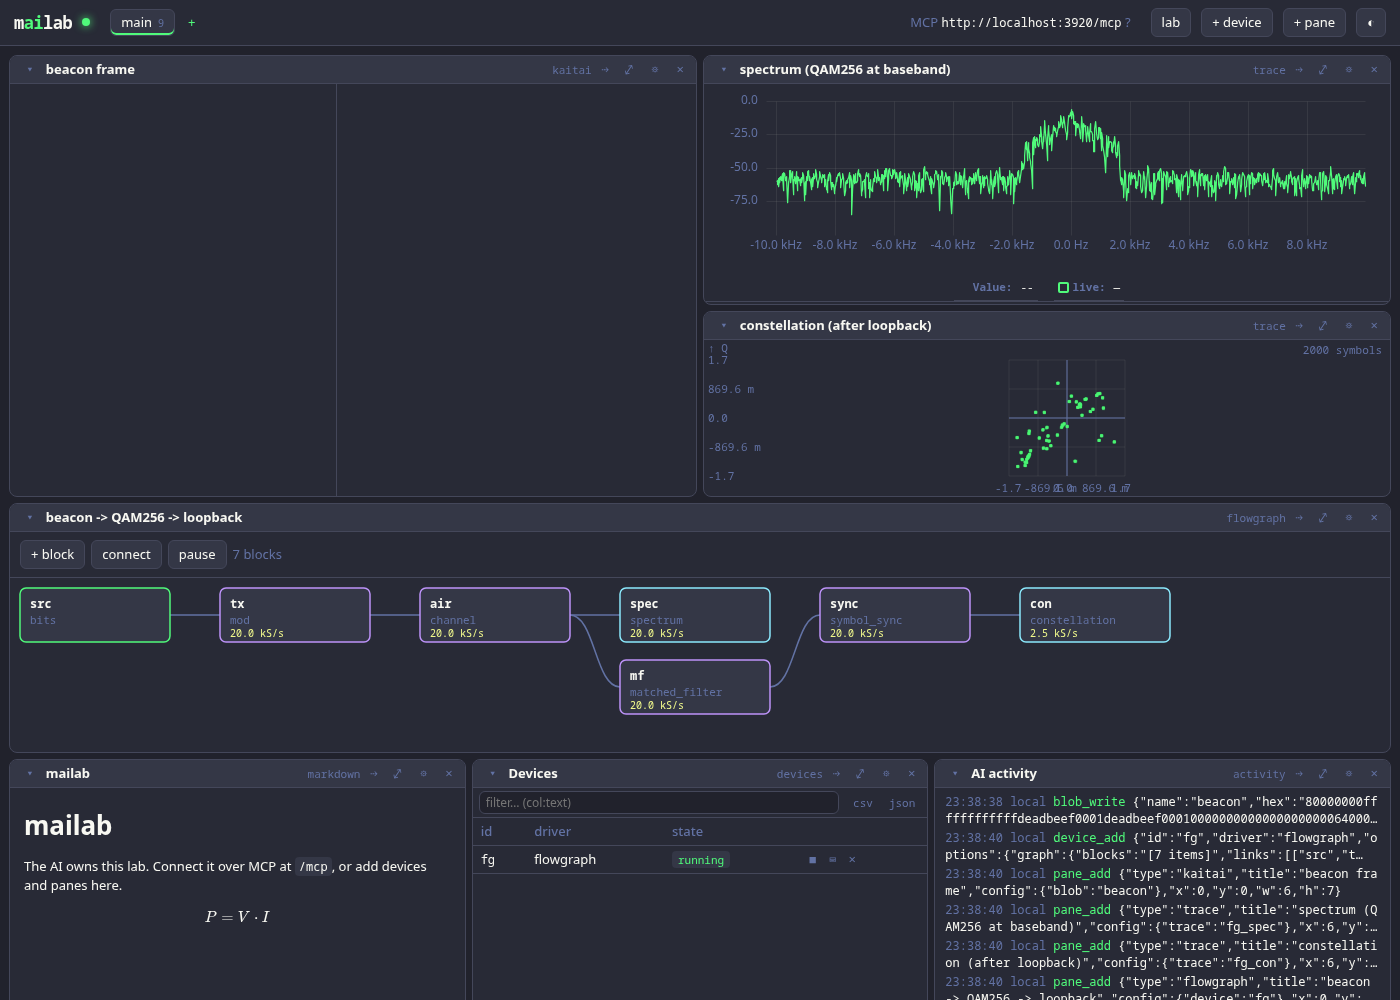
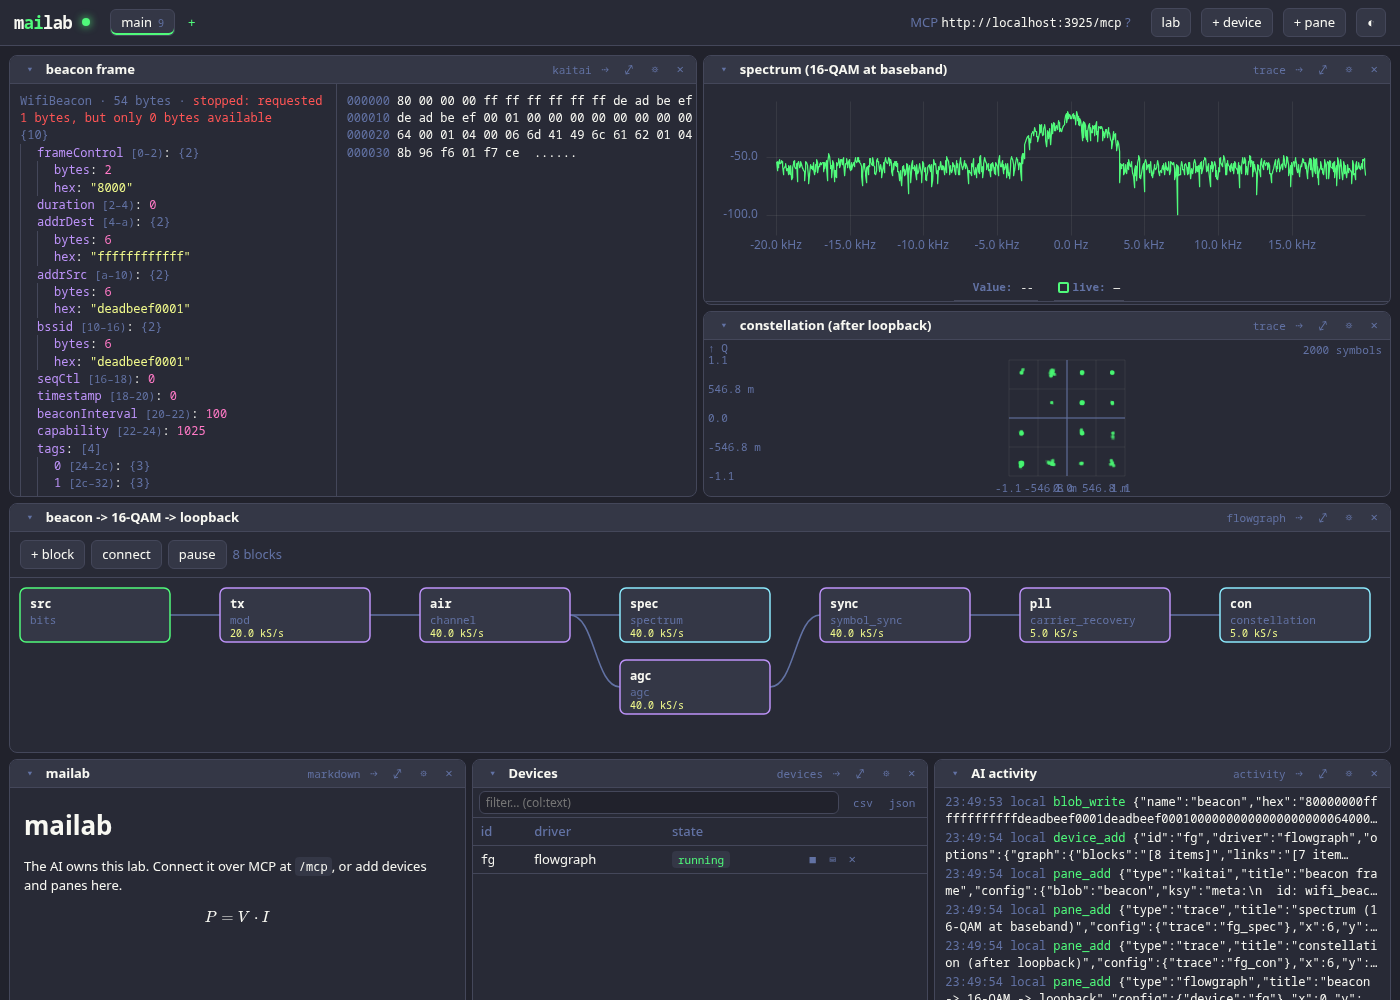
Fix kaitai pane blank on container fields (null range endpoint → toString crash); beacon demo uses 16-QAM + full agc/sync/carrier-recovery rx chain so the constellation is a clean grid; regenerate screenshot (frame now parses in the pane)

diff --git a/public/panes/kaitai.js b/public/panes/kaitai.js
@@ -37,7 +37,8 @@ export default {
 
 		const annotate = (path) => {
 			const r = result && result.ranges[path];
-			if (!r) {
+			// container fields (arrays, structs with a lazy end) have a null endpoint
+			if (!r || r[0] === null || r[1] === null) {
 				return "";
 			}
 			return " <span class=\"k-range\" data-path=\"" + escapeHtml(path) + "\">[" + r[0].toString(16) + "–" + r[1].toString(16) + ")</span>";

diff --git a/demos/beacon-to-iq/README.md b/demos/beacon-to-iq/README.md
@@ -1,6 +1,6 @@
 # Bytes → IQ → spectrum, in a few MCP calls
 
-Craft an 802.11 beacon frame, parse it, modulate the bytes as QAM256 and watch
+Craft an 802.11 beacon frame, parse it, modulate the bytes as 16-QAM and watch
 the signal — the whole thing an AI drives in six tool calls.
 
 ![beacon to IQ](screenshot.png)
@@ -15,9 +15,9 @@ The calls:
 | call | |
 |---|---|
 | `blob_write` | the crafted beacon bytes → blob `beacon` |
-| `device_add fg flowgraph` | `bits(hex:…) → mod(qam256) → channel` then `spectrum`, and `matched_filter → symbol_sync → constellation` |
+| `device_add fg flowgraph` | `bits(hex:…) → mod(qam16) → channel`, then `spectrum`, and `agc → symbol_sync → carrier_recovery → constellation` (the receive chain that lands the scatter on the 16-QAM grid) |
 | `pane_add kaitai` | the frame parsed into fields ([beacon.ksy](beacon.ksy)) |
-| `pane_add trace fg_spec` | the QAM256 spectrum at baseband |
+| `pane_add trace fg_spec` | the 16-QAM spectrum at baseband |
 | `pane_add trace fg_con` | the recovered constellation |
 | `pane_add flowgraph fg` | the graph |
 
@@ -29,6 +29,7 @@ SSID `mAIlab`, supported-rates tag, FCS.
 
 - **Nothing radiates.** The signal loops through the `channel` block (AWGN at
   30 dB), the same way the modem toolkit is tested. There is no SDR in the chain.
+- **16-QAM, not 256.** A 54-byte beacon is only ~108 symbols; 16-QAM fills its 16-point grid cleanly where QAM256 would barely sample its 256 points. 16-QAM is a real 802.11 MCS.
 - **It is not real Wi-Fi.** 802.11 is OFDM — dozens of subcarriers with pilots,
   scrambling, convolutional coding and interleaving, plus a preamble.
   Single-carrier QAM256 makes a pretty constellation but not a frame any access
